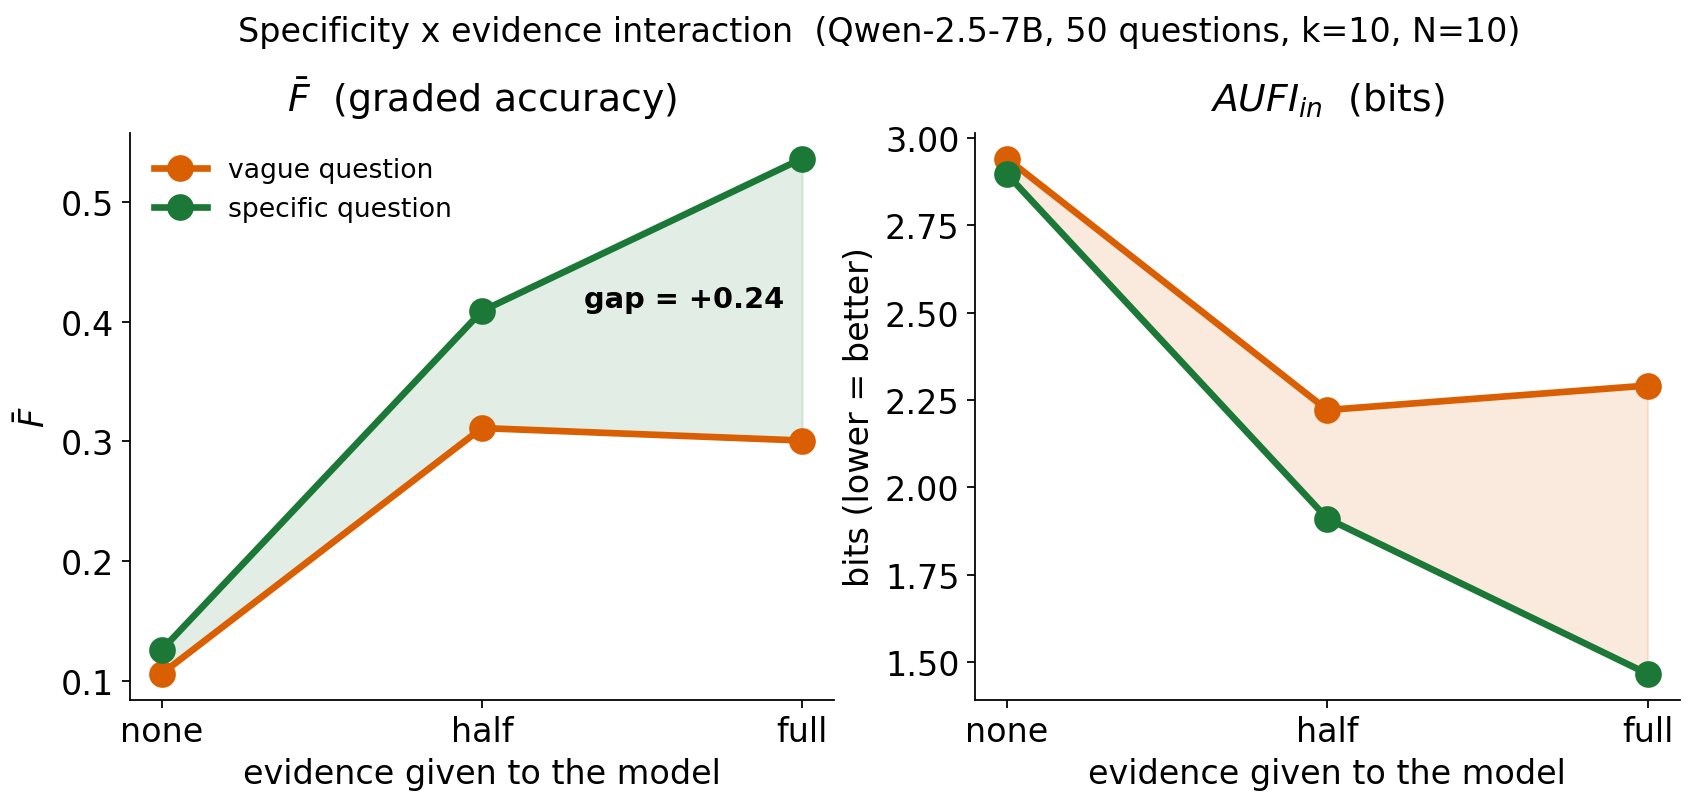
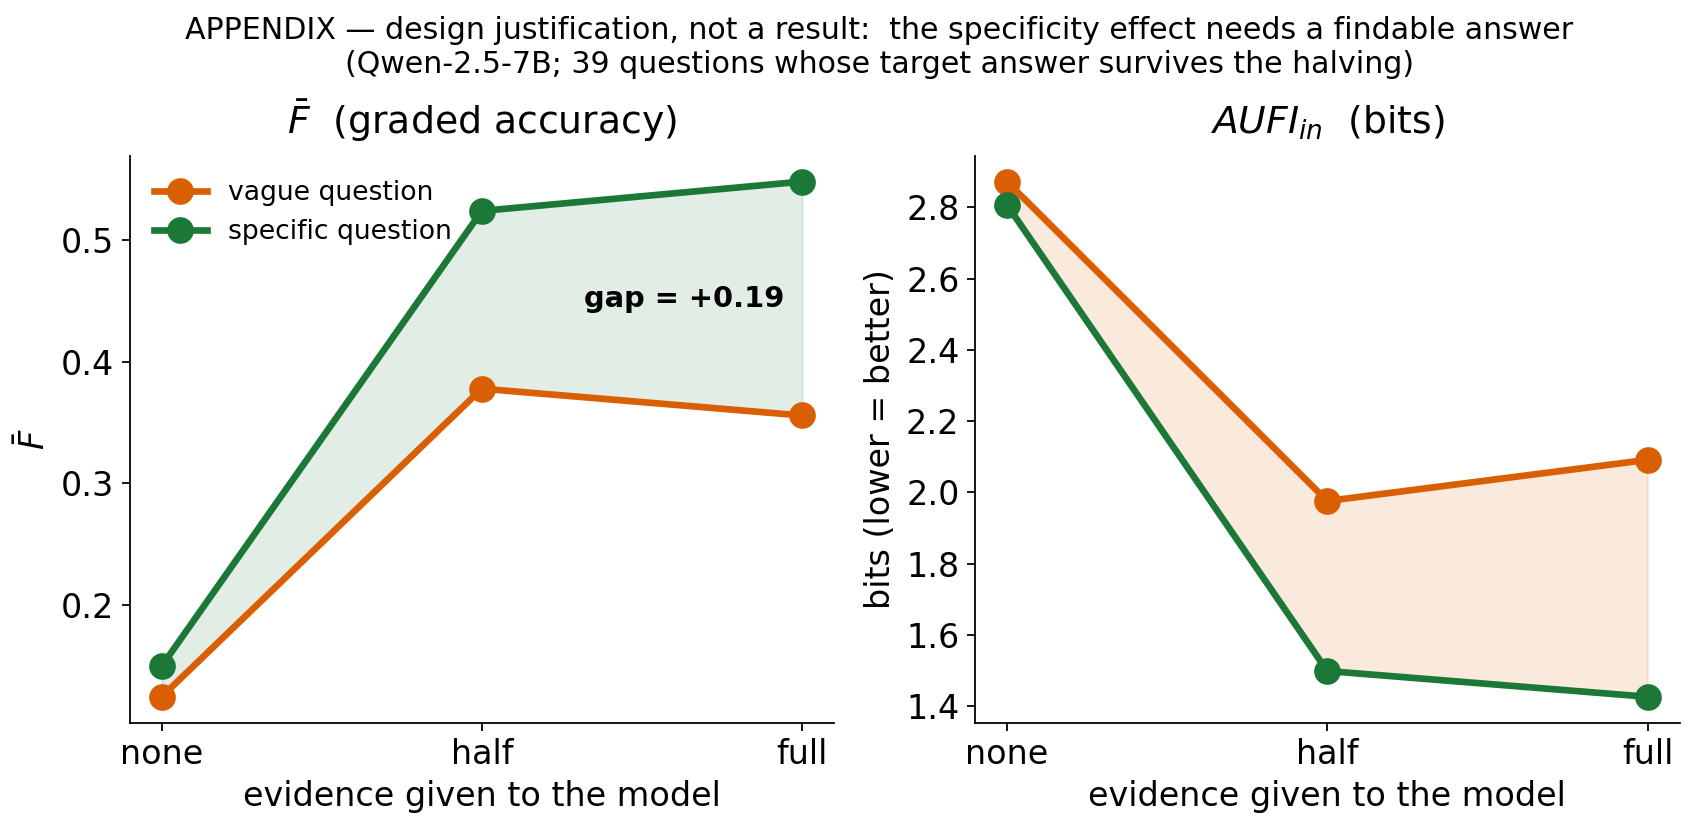
[deck] Withdraw the evidence dial as a result; keep it as design justification
Methodological decision (user, 2026-08-03): the study may manipulate only the
QUESTION side. Withholding evidence manipulates answerability, not context,
and re-creates the knowledge floor the uniform-evidence design removes — the
same objection that killed the VoI context arms.

Evidence found while checking: halving the snippet list DELETES the target
answer for 11 of 50 questions (present in 100% of full bundles, 78% of halved
ones), so the middle point confounded "less context" with "no answer present".

Changes:
- deck: "Result 2 — specificity x evidence interaction" removed; results
  renumbered (Result 2 = metric independence, Result 3 = POSIX); 33 -> 32
  slides. The "What we did" slide now carries the design justification:
  evidence is identical across levels and rephrasings BECAUSE a closed-book
  pilot left 84% of questions unanswerable; it is never a second dial.
- fig_dial: restricted to the 39 questions whose answer survives halving, so
  all three points compare the same questions (deltas +0.03/+0.15/+0.19 vs the
  confounded +0.02/+0.10/+0.24); relabelled APPENDIX / design justification.
- final_run_results.md documents the withdrawal and both number sets.

Data and figure retained — nothing deleted, only demoted.

diff --git a/prompt_sensitivity/scripts/make_kit_deck.py b/prompt_sensitivity/scripts/make_kit_deck.py
@@ -157,8 +157,19 @@ def build_section(prs, root):
     # 2 · design -----------------------------------------------------------
     s = kit_slide(prs, "What we did",
                   "AmbigQA (Min et al. 2020): human annotators already wrote both versions of every question.")
-    add_figure(s, root, "design", height=Inches(4.25))
-    add_takeaway(s, "One dial we control (FI_spec, model-free) → three things we measure.")
+    add_figure(s, root, "design", top=Inches(1.55), height=Inches(4.05))
+    # Design justification: why evidence is held constant rather than varied.
+    note = s.shapes.add_textbox(Inches(0.41), Inches(5.72), Inches(12.4), Inches(0.5))
+    note.text_frame.word_wrap = True
+    p = note.text_frame.paragraphs[0]
+    p.text = ("Every cell also receives the SAME evidence block (the annotators' Wikipedia snippets), "
+              "identical across both levels and all 10 rephrasings:\na closed-book pilot left 84 % of "
+              "questions unanswerable, so answering must be reading, not recall. Evidence is held "
+              "constant — it is never a second dial.")
+    for r in p.runs:
+        _style(r, 12, color=MUTED)
+    add_takeaway(s, "One manipulated variable: FI_spec, the question's own specificity (model-free). "
+                    "Everything else is held fixed.")
 
     # 3 · definitions (NEW, technical) -------------------------------------
     s = kit_slide(prs, "The four quantities, defined",
@@ -176,40 +187,37 @@ def build_section(prs, root):
                     "all 3 models, Wilcoxon signed-rank p ≤ 5e-9.")
 
     # 5 · result 2 ---------------------------------------------------------
-    s = kit_slide(prs, "Result 2 — specificity × evidence interaction",
-                  "Same 50 questions re-run with 0 %, 50 % and 100 % of the retrieved evidence snippets "
-                  "(identical across both specificity levels).")
-    add_figure(s, root, "dial", height=Inches(4.3))
-    add_takeaway(s, "ΔF̄ = +0.02 / +0.10 / +0.24 and ΔAUFI_in = −0.05 / −0.31 / −0.83 bits "
-                    "at 0 / 50 / 100 % evidence — the two factors interact.")
-
-    # 6 · result 3 ---------------------------------------------------------
-    s = kit_slide(prs, "Result 3 — the three measures are genuinely different",
+    # (The evidence-dial arm was dropped from the results flow on 2026-08-03:
+    #  withholding evidence manipulates ANSWERABILITY, not context, and
+    #  re-creates the knowledge floor the uniform-evidence design removes. It
+    #  survives as the design justification on the "What we did" slide, and as
+    #  an appendix figure.)
+    s = kit_slide(prs, "Result 2 — the three measures are genuinely different",
                   "Within-level Spearman |ρ| between all 12 metrics we computed (n = 149 questions × 3 models).")
     add_figure(s, root, "independence", top=Inches(1.5), height=Inches(4.85))
     add_takeaway(s, "ρ_F ⊥ accuracy (.08) and ⊥ H_sem (.03) → no axis can be inferred from another.",
                  top=Inches(6.42))
 
-    # 7 · result 4 ---------------------------------------------------------
-    s = kit_slide(prs, "Result 4 — what the literature actually measures",
+    # 6 · result 3 ---------------------------------------------------------
+    s = kit_slide(prs, "Result 3 — what the literature actually measures",
                   "POSIX (Chatterjee et al. 2024): a published prompt-sensitivity index, computed on our data.")
     add_figure(s, root, "posix", height=Inches(4.3))
     add_takeaway(s, "It loads on answer dispersion in all 3 models (ρ .35–.69) — the phrasing axis stays empty.")
 
-    # 8 · probe design (NEW, technical) ------------------------------------
+    # 7 · probe design ------------------------------------------------------
     s = kit_slide(prs, "How the prompt checker works",
                   "A linear probe on the model's own hidden state — no fine-tuning, no extra annotation.")
     add_figure(s, root, "probe", top=Inches(1.5), height=Inches(4.8))
     add_takeaway(s, "Cost: one forward pass — the warning arrives BEFORE the model answers.",
                  top=Inches(6.42))
 
-    # 9 · probe results ----------------------------------------------------
+    # 8 · probe results ----------------------------------------------------
     s = kit_slide(prs, "Prompt checker — does it work?",
                   "Out-of-fold by question; right panel = 1,852 questions never seen, labelled by AmbigQA annotators.")
     add_figure(s, root, "feedback", height=Inches(4.3))
     add_takeaway(s, "Vagueness .85–.87 in-distribution, .66 on unseen human-labelled questions (length baseline .46).")
 
-    # 10 · contributions ---------------------------------------------------
+    # 9 · contributions ----------------------------------------------------
     s = kit_slide(prs, "What this paper could contribute",
                   "Four claims we can now defend with data.")
     add_body(s, [
@@ -228,7 +236,7 @@ def build_section(prs, root):
     ], top=Inches(1.72), gap=Inches(1.15), head_size=16, body_size=13)
     add_takeaway(s, "Open question for today: which of these should lead the paper?", top=Inches(6.5))
 
-    # 11 · status ----------------------------------------------------------
+    # 10 · status ----------------------------------------------------------
     s = kit_slide(prs, "Where we stand", None)
     left = [
         "3 models × 149 questions × 2 specificity levels",

diff --git a/prompt_sensitivity/scripts/make_supervisor_figures.py b/prompt_sensitivity/scripts/make_supervisor_figures.py
@@ -40,6 +40,36 @@ def _v3(root):
     return {m: pd.read_parquet(root / f"data/specificity_v3_{m}.parquet") for m in MODELS}
 
 
+def _answer_survives_half(root) -> set[str]:
+    """question_ids whose TARGET answer still appears in the first ceil(n/2)
+    evidence snippets — i.e. where halving reduces context without deleting
+    the answer. Dataset-side and model-free (same criterion as the study's
+    evidence-coverage inclusion filter, applied at the halved depth)."""
+    import math
+
+    from ..config import load_config as _load
+    from ..data.load_ambigqa import load_ambigqa
+    from ..specificity.build_levels import choose_target_idx
+
+    cfg = _load()
+    acfg = cfg.sampling.ambigqa
+    seed = (cfg.specificity.target_seed
+            if cfg.specificity is not None else cfg.random_seed)
+    keep: set[str] = set()
+    for q in load_ambigqa(
+        hf_dataset=acfg.hf_dataset, hf_config=acfg.hf_config, split=acfg.split,
+        min_interpretations=acfg.min_interpretations,
+        include_single_answer_anchor=acfg.include_single_answer_anchor,
+    ):
+        t = choose_target_idx(q.id, q.m0(), seed=seed)
+        answers = [a.casefold() for a in q.interpretations[t].answers]
+        half = q.evidence[: math.ceil(0.5 * len(q.evidence))]
+        blob = " ".join((s.title + " " + s.snippet).casefold() for s in half)
+        if any(a in blob for a in answers):
+            keep.add(q.id)
+    return keep
+
+
 # --- 1. headline: what one turn of the dial buys ---------------------------
 def fig_headline(root, out):
     d = _v3(root)
@@ -80,10 +110,21 @@ def fig_headline(root, out):
 
 # --- 2. the evidence interaction ------------------------------------------
 def fig_dial(root, out):
+    """APPENDIX/ablation only — the evidence dial was removed from the results
+    flow on 2026-08-03: withholding evidence manipulates ANSWERABILITY, not
+    context, and re-creates the knowledge floor the uniform-evidence design
+    exists to avoid. Retained because it justifies that design choice.
+
+    Restricted to the questions whose target answer SURVIVES the halving, so
+    all three points compare the same questions (39 of 50); on the full 50 the
+    half condition also deletes the answer outright for 11 questions.
+    """
     f00 = pd.read_parquet(root / "data/evidence_dial_f00_qwen_2_5_7b.parquet")
     f05 = pd.read_parquet(root / "data/evidence_dial_f05_qwen_2_5_7b.parquet")
     v3 = pd.read_parquet(root / "data/specificity_v3_qwen_2_5_7b.parquet")
-    qids = set(f00.question_id.astype(str))
+    qids = set(f00.question_id.astype(str)) & _answer_survives_half(root)
+    f00 = f00[f00.question_id.astype(str).isin(qids)]
+    f05 = f05[f05.question_id.astype(str).isin(qids)]
     f10 = v3[v3.question_id.astype(str).isin(qids)]
     fr = [0.0, 0.5, 1.0]
     acc = {lvl: [df[df.spec_level == lvl].f_graded_mean.mean()
@@ -110,8 +151,9 @@ def fig_dial(root, out):
                      xytext=(0.66, (acc[0][2] + acc[1][2]) / 2), fontsize=13,
                      fontweight="bold", va="center")
     axes[0].legend(loc="upper left", fontsize=12)
-    fig.suptitle("Specificity x evidence interaction  (Qwen-2.5-7B, 50 questions, k=10, N=10)",
-                 fontsize=15, y=1.04)
+    fig.suptitle("APPENDIX — design justification, not a result:  the specificity effect needs a findable answer\n"
+                 "(Qwen-2.5-7B; 39 questions whose target answer survives the halving)",
+                 fontsize=13.5, y=1.07)
     fig.savefig(out, dpi=160)
     plt.close(fig)
 

diff --git a/data/final_run_results.md b/data/final_run_results.md
@@ -21,28 +21,24 @@ an honest OOD gap to report — while the length baseline sits BELOW chance
 (0.457), so the heads' signal is semantic, not a length artifact.
 Results parquet: `data/vagueness_holdout_results.parquet`.
 
-## Evidence dial — specificity × evidence interaction (qwen, same 50 q) ✅
+## Evidence dial — WITHDRAWN as a result (2026-08-03), kept as design justification
 
-f = 0.0 / 0.5 fresh runs; f = 1.0 sliced from the v3 parquet (100 matched
-cells). All cells 100/100, 0 failed.
+The arm crossed specificity with 0 % / 50 % / 100 % of the evidence snippets.
+**Dropped from the results flow**: withholding evidence manipulates
+*answerability*, not context, and re-creates the knowledge floor that the
+uniform-evidence design exists to remove — the same objection that killed the
+VoI context arms. Concretely, halving the snippet list **deletes the target
+answer outright for 11 of 50 questions** (answer present: 100 % at full,
+78 % at half), so the middle point confounds "less context" with "no answer".
 
-| evidence | acc L0 | acc L1 | Δacc | AUFI L0 | AUFI L1 | ΔFI (bits) | H_sem L0→L1 |
-|---|---|---|---|---|---|---|---|
-| 0.0 (closed book) | 0.106 | 0.126 | +0.02 | 2.94 | 2.90 | −0.05 | 0.59→0.58 |
-| 0.5 | 0.311 | 0.409 | +0.10 | 2.22 | 1.91 | −0.31 | 0.28→0.25 |
-| 1.0 | 0.301 | 0.536 | +0.24 | 2.29 | 1.47 | −0.83 | 0.35→0.22 |
+On the 39 questions whose answer survives the halving (same questions at all
+three points), the pattern is monotone — Δaccuracy +0.03 / +0.15 / +0.19 at
+0 / 50 / 100 % evidence — but it is reported as **the reason evidence is held
+constant**, not as a second experimental axis. Figure retained as an appendix
+ablation (`figures/supervisor_2026-08-03/dial.png`, clean subset).
 
-Reading — the dial's payoff REQUIRES evidence and grows with it:
-- **Closed book:** floor everywhere; disambiguation buys ~nothing (the model
-  lacks the knowledge either way) — replicates the v1 floor finding.
-- **L0 saturates at ~0.30 from half evidence onward** (ambiguity, not
-  evidence, is the binding constraint on the ambiguous question), while
-  **L1 keeps climbing with evidence** (0.13 → 0.41 → 0.54).
-- In bits: paying 1.59 bits of question specificity converts to −0.05 /
-  −0.31 / −0.83 bits of formulation-luck reduction at evidence 0 / ½ / full.
-  Question-side information is only convertible when the answer is
-  extractable — evidence raises the ceiling, specificity determines how much
-  of it you reach.
+Closed-book endpoint (Δaccuracy +0.02 on all 50) replicates the v1 floor
+finding: 84 % of questions unanswerable without evidence.
 
 ## POSIX — all three models ✅ (completes the axis-3 literature row)
 
